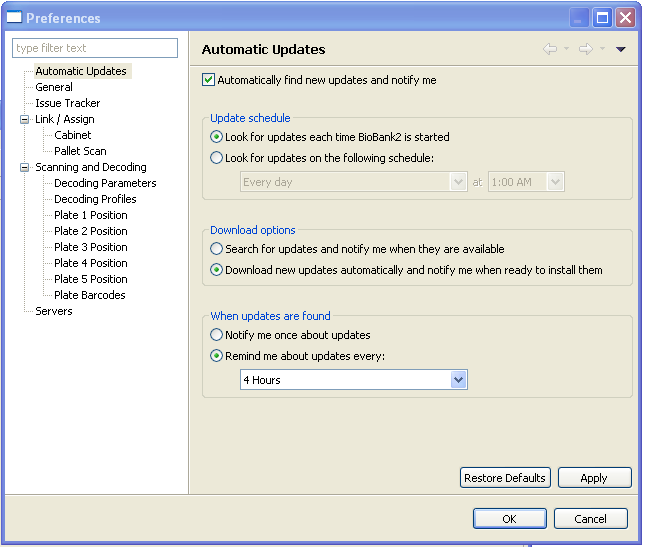
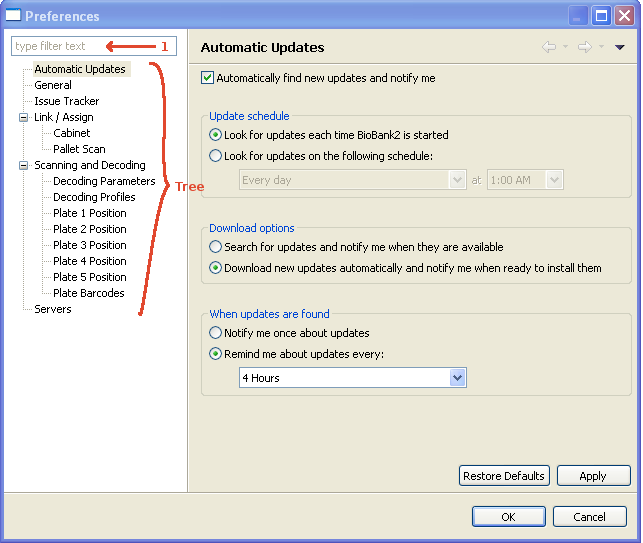
changes after feedback on user manual

diff --git a/docs/javaClientUserGuide/configuration.tex b/docs/javaClientUserGuide/configuration.tex
@@ -9,7 +9,8 @@ The configuration settings for the Java Client can be found by selecting
       \label{fig:preferences_dialog}
     \end{figure}
 A configuration page can be selected by clicking on a node on the
-tree on the left hand side of the dialog box. The \texttt{filter text} box can
+tree on the left hand side of the dialog box. The \texttt{filter text} box, see
+arrow labelled \emph{1} in figure \ref{fig:preferences_dialog}, can
 be used to quickly find a configuration page by typing the name of the page in
 whole or in part.
 
@@ -23,6 +24,13 @@ download them, and how to notify the user when they are found.
 
 \section{General}
 The settings on this page are general to the application.
+    \begin{figure}[H]
+      \centering
+      \scalebox{0.5}
+      { \includegraphics*{screenshots/configuration/prefs_general} }
+      \caption{General preferences.}
+      \label{fig:prefs_general}
+    \end{figure}
 \begin{description}
   \item[Show software version in main window title] the Java Client's software
     version can be displayed in the window's title bar by checking this
@@ -40,7 +48,13 @@ the software design team\footnote{\texttt{Help -> Send Error Email} from the
   main menu}. The error emails have application state information attached to
 aid team in resolving potential problems. The settings on this page are the
 settings used to send the emails to the team.
-
+    \begin{figure}[H]
+      \centering
+      \scalebox{0.5}
+      { \includegraphics*{screenshots/configuration/prefs_issue_tracker} }
+      \caption{Issue tracker preferences.}
+      \label{fig:prefs_issue_tracker}
+    \end{figure}
 \begin{description}
   \item[Tracker email] The email address to send problem reports to.
   \item[SMTP server] The SMTP mail server to use when sending emails.
@@ -56,6 +70,13 @@ These settings are used when scanning and decoding pallets and linking them to
 patients or container locations.
 \marginpar{\color{red}{There should  be an appendix with instructions on how to create
   these barcodes.}}
+    \begin{figure}[H]
+      \centering
+      \scalebox{0.5}
+      { \includegraphics*{screenshots/configuration/prefs_link_assign} }
+      \caption{Scan link / Assign preferences.}
+      \label{fig:prefs_link_assign}
+    \end{figure}
 \begin{description}
   \item[Confirm Barcode and Cancel Barcode] To speed up
     processing of samples, a handheld barcode scanner can be used to quickly
@@ -78,15 +99,29 @@ patients or container locations.
 \section{Scanning and Decoding}
 The settings on this page allow the user to specify the scanning and
 decoding parameters used when decoding pallet images.
+    \begin{figure}[H]
+      \centering
+      \scalebox{0.5}
+      { \includegraphics*{screenshots/configuration/prefs_scanning_and_decoding} }
+      \caption{Scanning and Decoding preferences.}
+      \label{fig:prefs_scanning_and_decoding}
+    \end{figure}
 \begin{description}
-  \item[Select Scanner]
- Used to select the scanner that will be used to scan
-    96 well pallets.
+  \item[Select Scanner] This button is used to select the scanner that will be
+    used to scan 96 well pallets. The dialog box shown in figure
+    \ref{fig:prefs_select_source} is shown when the button is pressed.
+    \begin{figure}[H]
+      \centering
+      \scalebox{0.5}
+      { \includegraphics*{screenshots/configuration/prefs_select_source} }
+      \caption{Selecting a scanning source.}
+      \label{fig:prefs_select_source}
+    \end{figure}
   \item[Driver Type] The type of driver that was selected when the \fbox{Select
     Scanner} button was pressed. Normally, the application will attempt to
     determine the driver type as soon as the user makes the selection, but
-    sometimes the application does not select the correct type. Use the
-    check boxes here to override what the application selected.
+    sometimes the application does not select the correct type. Use the check
+    boxes here to override what the application selected.
   \item[DPI] The \emph{Dots per Inch} used by the scanner for scanning
     images. For best results use 600 DPI.
   \item[Brightness] The brightness setting to be used when scanning
@@ -98,8 +133,18 @@ decoding parameters used when decoding pallet images.
 \end{description}
 
 \subsection{Decoding Parameters}
-These settings control how the software decodes the sample tubes with
+On the preferences dialog window, if there is a "plus" symbol next to the
+\emph{Scanning and Decoding} node, press it to expand the sub tree.
+
+These settings control how the software decodes the sample tubes imprinted with
 DataMatrix 2D barcodes.
+    \begin{figure}[H]
+      \centering
+      \scalebox{0.5}
+      { \includegraphics*{screenshots/configuration/prefs_decoding_parms} }
+      \caption{Decoding preferences.}
+      \label{fig:prefs_decoding_parms}
+    \end{figure}
 \begin{description}
   \item[Decode Library Debug Level] The decoding software library can output
     debugging information to a log file. When this value is zero there is no
@@ -124,11 +169,20 @@ DataMatrix 2D barcodes.
 \end{description}
 
 \subsection{Decoding Profiles}
+On the preferences dialog window, if there is a "plus" symbol next to the
+\emph{Scanning and Decoding} node, press it to expand the sub tree.
+
 This page allows the user to define \emph{Decoding Profiles}. These profiles
 allow the user define a sub set of tubes to decoded when an image of a pallet
 is scanned. Scanning profiles can be used during scan link and scan assign (see
 sections \ref{sec:scan_link} and \ref{sec:scan_assign}).
-
+    \begin{figure}[H]
+      \centering
+      \scalebox{0.45}
+      { \includegraphics*{screenshots/configuration/prefs_decoding_profiles} }
+      \caption{Decoding profiles preferences.}
+      \label{fig:prefs_decoding_profiles}
+    \end{figure}
 For example: the user may wish to only decode every other row on a pallet. Once
 the profile is created it can be used at scan link and scan assign time and
 only the cells activated in the profile will be decoded. If 2D barcodes are
@@ -140,16 +194,14 @@ To create a new profile follow these instructions:
   \item Press the \fbox{Add...} button. A dialog box pops up requesting a name
     for the new profile. Enter an appropriate name and press the \fbox{OK}
     button.
-  \item Now select each cell that should be part of the profile. When done
+  \item Now select each cell that should be part of the profile (see cells with
+    a checkmark in Figure \ref{fig:prefs_decoding_profiles}). When done
     selecting cells press the \fbox{Apply} button.
 \end{enumerate}
 
 \subsection{Plate Positions}
-To define a pallet scanning region do the following:
-\begin{enumerate}
-  \item On the preferences dialog window, if there is a "plus" symbol next to
-    the \emph{Scanning and Decoding} node, press it to expand the sub
-    tree.
+On the preferences dialog window, if there is a "plus" symbol next to the
+\emph{Scanning and Decoding} node, press it to expand the sub tree.
     \begin{figure}[H]
       \centering
       \scalebox{0.5}
@@ -157,6 +209,9 @@ To define a pallet scanning region do the following:
       \caption{Configuring a plate position.}
       \label{fig:plate1_definition}
     \end{figure}
+
+To define a pallet scanning region do the following:
+\begin{enumerate}
   \item Place a pallet that contains tubes on the flatbed scanner. Ensure the
     top edge of the pallet is touching the top of the scanning region, and the right
     edge of the pallet is touching the right margin. Ensure the 12 columns
@@ -185,7 +240,8 @@ To define a pallet scanning region do the following:
     pressing the left mouse button while hovering inside the grid.
   \item Once the grid cells are aligned with each tube press the \fbox{OK} button
     (see Figure \ref{fig:plate1_grid_ready}). The wheel on the mouse can be
-    used to make the cells smaller or bigger.
+    used to make the cells smaller or bigger (this is referred to as the
+    \emph{Cell Gap}).
     \begin{figure}[H]
       \centering
       \scalebox{0.5}
@@ -221,6 +277,13 @@ words can be printed and then scanned when required by the application (See
 sections \ref{sec:scan_link} and \ref{sec:scan_assign}). The \textbf{Plate
   \emph{x} barcode} settings contain the text encoded into these barcodes when
 they were created.
+    \begin{figure}[H]
+      \centering
+      \scalebox{0.45}
+      { \includegraphics*{screenshots/configuration/prefs_plate_barcodes} }
+      \caption{Plate barcode preferences.}
+      \label{fig:prefs_plate_barcodes}
+    \end{figure}
 
 \section{Servers}
 This page contains a list of BioBank2 servers that the Java Client connects to
@@ -228,6 +291,13 @@ on a regular basis. This list is used in the login dialog box to aid the user
 to quickly select a server. New servers can be added to this list by pressing
 the \fbox{New} button. Only the domain name or IP address for the server is
 required.
+    \begin{figure}[H]
+      \centering
+      \scalebox{0.45}
+      { \includegraphics*{screenshots/configuration/prefs_servers} }
+      \caption{Server preferences.}
+      \label{fig:prefs_servers}
+    \end{figure}
 
 Previously entered servers can also be edited with the \fbox{Edit} button if a
 spelling mistake was made.

diff --git a/docs/javaClientUserGuide/overview.tex b/docs/javaClientUserGuide/overview.tex
@@ -1,9 +1,45 @@
 \chapter{Overview}
+The BioBank2 Java Client is designed to be a client application that connects
+to a server which provides services for storing inventory information for
+biological samples. More than one client can connect to the server at the same
+time. The client is a software application that runs on Microsoft Windows and
+Linux\footnote{The scanner cannot be used when using the application on Linux.}. The client
+software is a Java application and requires that a Java JRE or JDK be installed
+on the computer. The installation program for the client installs a Java JRE if
+it is not already present on the computer.
+
+When running on Microsoft Windows, the client can connect to scanners use either
+TWAIN\footnote{\url{http://en.wikipedia.org/wiki/TWAIN}} or
+WIA\footnote{\url{http://en.wikipedia.org/wiki/Windows_Image_Acquisition}}
+drivers. Most scanners available on the market provide these
+drivers. Therefore, most scanners work with the client software.
+
+Figure \ref{fig:main_window} shows the application's main window and highlights
+different some of its components.
     \begin{figure}[H]
       \centering
-      \scalebox{0.5}
+      \scalebox{0.4}
       { \includegraphics*{screenshots/overview/main_window} }
       \caption{The Java Client's main window.}
       \label{fig:main_window}
     \end{figure}
+\begin{description}
+  \item[Main Menu] The main menu allows the user access to the different
+    functions provided by the software (see section \ref{sec:main_menu} for a
+    description of the menu items). The application also has an icon based
+    toolbar to access commonly used functions.
+  \item[Toolbar Icons] The icon buttons in the toolbar allow quick access to
+    often used menu items. Using the mouse, the user can hover over the icon
+    button and after 2 seconds a tooltip is displayed describing what the
+    button is for and if applicable the keyboard shortcut. Note that there is
+    an icon toolbar under the Main Menu and another grouped with the tree view.
+  \item[Tree View] The tree view shown here is for the \emph{Administration
+    View}. The application has multiple views and are described in section
+    \ref{sec:application_views}.
+\end{description}
+
+\section{Main Menu}
+\label{sec:main_menu}
+
 \section{Views}
+\label{sec:application_views}

diff --git a/docs/javaClientUserGuide/document.tex b/docs/javaClientUserGuide/document.tex
@@ -6,6 +6,15 @@
 \usepackage{graphicx}
 \usepackage{float}
 \usepackage{multirow}
+\usepackage[pdftex,
+  pdfauthor={AICML},
+  pdftitle={BioBank2 Java Client User Manual},
+  colorlinks,
+  linkcolor=blue,
+  bookmarks=true,
+  bookmarksopen=true,
+  pdfstartview=FitH]
+	   {hyperref}
 
 \oddsidemargin  0.0in
 \evensidemargin 0.0in
@@ -22,7 +31,8 @@
 \frontmatter
 
 \title{BioBank2 Java Client User Manual}
-\author{Alberta Ingenuity Centre for Machine Learning}
+\author{\Large{Prepared for the Canadian BioSample Repository}\\
+by the Alberta Ingenuity Centre for Machine Learning}
 \maketitle
 \clearpage
 \tableofcontents
